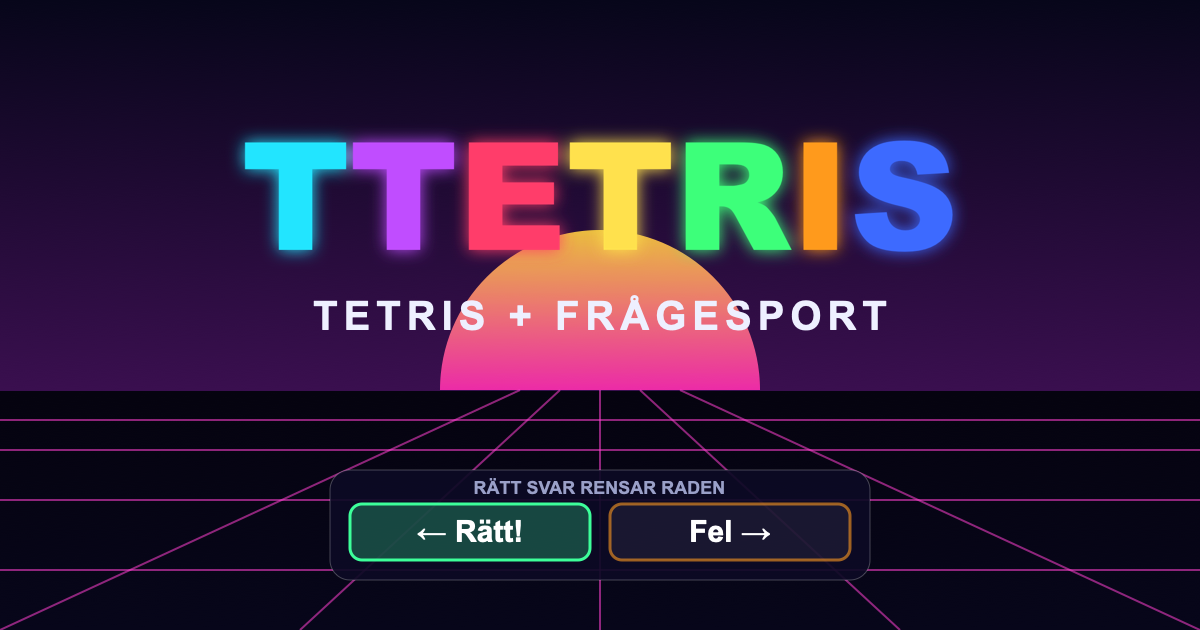
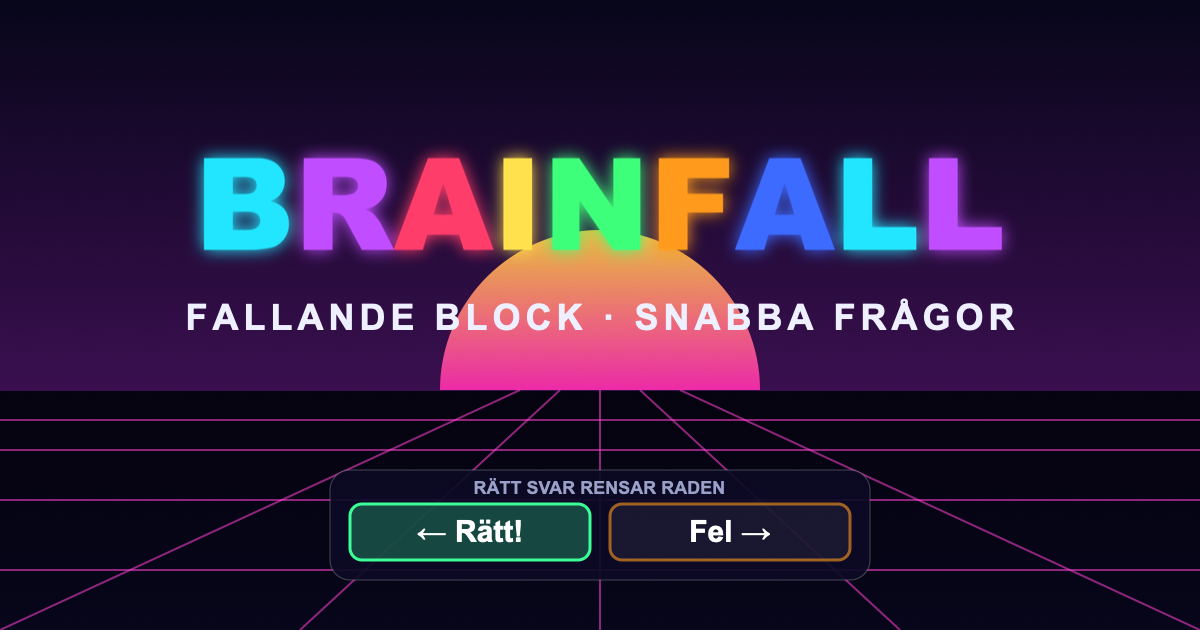
Byt namn till Brainfall
"Tetris" är ett skyddat varumärke, så spelet får ett eget namn innan
det publiceras. Logga, titlar, manifest, OG-bild, delningstext,
localStorage-prefix och README uppdaterade. "TETRIS!" vid fyra rader
heter nu "FYRDUBBELT!" / "QUAD!".

Menyn kan nu scrollas när fönstret är lägre än innehållet, så att
loggan inte klipps bort.

Changed region(s): [[0.1542, 0.2111, 0.8633, 0.4222], [0.1542, 0.4524, 0.8633, 0.5429]]

diff --git a/index.html b/index.html
@@ -3,13 +3,13 @@
   <head>
     <meta charset="UTF-8" />
     <meta name="viewport" content="width=device-width, initial-scale=1, viewport-fit=cover" />
-    <title>TTetris – Tetris med frågesport</title>
-    <meta name="description" content="Tetris med en twist: varje rad du fyller blir en snabb frågesportsfråga. Rätt svar rensar raden. Spela gratis i webbläsaren." />
+    <title>Brainfall – fallande block, snabba frågor</title>
+    <meta name="description" content="Klassiskt blockspel med en twist: varje rad du fyller blir en snabb frågesportsfråga. Rätt svar rensar raden. Spela gratis i webbläsaren." />
     <meta name="theme-color" content="#07061a" />
     <link rel="icon" href="icons/icon.svg" type="image/svg+xml" />
     <link rel="manifest" href="manifest.webmanifest" />
     <meta property="og:type" content="website" />
-    <meta property="og:title" content="TTetris – Tetris med frågesport" />
+    <meta property="og:title" content="Brainfall – fallande block, snabba frågor" />
     <meta property="og:description" content="Fyll en rad, svara rätt – annars blir raden kvar. Kan du slå mitt rekord?" />
     <meta property="og:image" content="%VITE_SITE_URL%og-image.png" />
     <link rel="apple-touch-icon" href="icons/icon-192.png" />
@@ -63,8 +63,8 @@
     </div>
 
     <div id="menu" class="screen">
-      <h1 class="logo" aria-label="TTetris">
-        <span style="--c: var(--I)">T</span><span style="--c: var(--T)">T</span><span style="--c: var(--Z)">E</span><span style="--c: var(--O)">T</span><span style="--c: var(--S)">R</span><span style="--c: var(--L)">I</span><span style="--c: var(--J)">S</span>
+      <h1 class="logo" aria-label="Brainfall">
+        <span style="--c: var(--I)">B</span><span style="--c: var(--T)">R</span><span style="--c: var(--Z)">A</span><span style="--c: var(--O)">I</span><span style="--c: var(--S)">N</span><span style="--c: var(--L)">F</span><span style="--c: var(--J)">A</span><span style="--c: var(--I)">L</span><span style="--c: var(--T)">L</span>
       </h1>
       <p class="subtitle" data-i18n="subtitle"></p>
       <div id="challenge" class="challenge" hidden></div>

diff --git a/src/main.ts b/src/main.ts
@@ -55,7 +55,7 @@ async function loadBank(code: string): Promise<Question[]> {
     banks.set(code, data.questions);
     return data.questions;
   } catch {
-    return []; // offline without cache → classic Tetris
+    return []; // offline without cache → no questions, plain stacking
   }
 }
 
@@ -329,8 +329,8 @@ function handleEvent(g: Game, e: GameEvent, now: number) {
     case 'clear':
       fx.rowBurst(e.rows, e.cells, HIDDEN_ROWS);
       if (e.rows.length >= 4) {
-        audio.play('tetris');
-        fx.text(t('tetris'), '#ffe14d', 1.6, 9);
+        audio.play('quad');
+        fx.text(t('quad'), '#ffe14d', 1.6, 9);
         fx.shake(12, 260);
       } else audio.play('clear');
       break;

diff --git a/src/style.css b/src/style.css
@@ -333,7 +333,9 @@ kbd {
   display: flex;
   flex-direction: column;
   align-items: center;
-  justify-content: center;
+  /* `safe` keeps the top (logo) reachable when the menu is taller than the window. */
+  justify-content: safe center;
+  overflow-y: auto;
   gap: 16px;
   padding: 24px 16px;
   text-align: center;
@@ -381,7 +383,7 @@ kbd {
 
 .logo {
   margin: 0;
-  font: 900 clamp(48px, 13vw, 110px) var(--display);
+  font: 900 clamp(34px, 10vw, 104px) var(--display);
   letter-spacing: 0.04em;
   line-height: 1;
   display: flex;

diff --git a/src/audio/audio.ts b/src/audio/audio.ts
@@ -9,7 +9,7 @@ export type Sfx =
   | 'correct'
   | 'wrong'
   | 'clear'
-  | 'tetris'
+  | 'quad'
   | 'burn'
   | 'levelup'
   | 'gameover'
@@ -248,7 +248,7 @@ export class AudioEngine {
       case 'clear':
         this.noiseHit(b, t, 0.3, 0.18, 600, 'bandpass', 6000);
         break;
-      case 'tetris':
+      case 'quad':
         arp(['C5', 'G5', 'C6', 'E6', 'G6', 'C7'], 0.05, 0.25, 0.12);
         this.noiseHit(b, t, 0.5, 0.2, 400, 'bandpass', 8000);
         break;

diff --git a/src/ui/share.ts b/src/ui/share.ts
@@ -43,7 +43,7 @@ export async function shareScore(seed: string, score: number) {
   const text = t('shareText', { score: formatNumber(score) });
   if (navigator.share) {
     try {
-      await navigator.share({ title: 'TTetris', text, url });
+      await navigator.share({ title: 'Brainfall', text, url });
       return;
     } catch (e) {
       if ((e as DOMException).name === 'AbortError') return;

diff --git a/src/core/game.ts b/src/core/game.ts
@@ -254,7 +254,7 @@ export class Game {
     this.pendingRows = rows;
     const asked = this.nextQuestion();
     if (!asked) {
-      // No questions available: behave like classic Tetris.
+      // No questions available: behave like a classic block-stacking game.
       this.quiz = null;
       this.applyCorrect(1);
       return this.finishTurn();

diff --git a/public/sw.js b/public/sw.js
@@ -1,6 +1,6 @@
 // Offline support: network-first for the page and questions (so updates land fast),
 // cache-first for hashed build assets (they never change).
-const CACHE = 'ttetris-v1';
+const CACHE = 'brainfall-v1';
 
 self.addEventListener('install', () => self.skipWaiting());
 self.addEventListener('activate', (e) => {

diff --git a/tests/core.test.ts b/tests/core.test.ts
@@ -148,7 +148,7 @@ describe('quiz flow', () => {
     expect(g.streak).toBe(0);
   });
 
-  it('without questions it plays like classic Tetris', () => {
+  it('without questions it plays like a classic block game', () => {
     const g = gameReadyForLine(() => null);
     g.hardDrop();
     expect(g.phase).toBe('playing');

diff --git a/src/storage.ts b/src/storage.ts
@@ -28,7 +28,7 @@ export interface HighScore {
   seed: string;
 }
 
-const PREFIX = 'ttetris.';
+const PREFIX = 'brainfall.';
 
 // Storage can throw (private mode, blocked site data) – the game must work without it.
 function read<T>(key: string, fallback: T): T {

diff --git a/README.md b/README.md
@@ -1,6 +1,6 @@
-# TTetris – Tetris med frågesport
+# Brainfall
 
-Tetris med en twist: varje gång du fyller en rad dyker en snabb fråga med två svarsalternativ upp.
+**Fallande block, snabba frågor.** Ett klassiskt blockspel med en twist: varje gång du fyller en rad dyker en snabb fråga med två svarsalternativ upp.
 **Rätt svar** → raden rensas. **Fel svar** (eller tiden tar slut) → raden blir *låst* och stannar kvar.
 **3 rätt i rad** bränner bort den understa låsta raden.
 
@@ -59,7 +59,7 @@ Fler frågor i ett befintligt språk läggs bara till i JSON-filen. Spelet spara
 1. Pusha repot till GitHub.
 2. Gå till Cloudflare dashboard → *Workers & Pages* → *Create* → *Pages* → *Connect to Git* och välj repot.
 3. Build command: `npm run build`. Build output directory: `dist`.
-4. Under *Environment variables*: sätt `VITE_SITE_URL` till din publika URL med avslutande `/`, t.ex. `https://ttetris.pages.dev/`.
+4. Under *Environment variables*: sätt `VITE_SITE_URL` till din publika URL med avslutande `/`, t.ex. `https://brainfall.pages.dev/`.
    Den används för `og:image`, som måste vara en absolut URL för att länkförhandsvisningar ska fungera.
 
 Varje push till `main` deployas automatiskt, och andra brancher får egna preview-URL:er.
@@ -67,7 +67,7 @@ Varje push till `main` deployas automatiskt, och andra brancher får egna previe
 **Utan GitHub:**
 ```bash
 npm run build
-npx wrangler pages deploy dist --project-name ttetris
+npx wrangler pages deploy dist --project-name brainfall
 ```
 
 `public/_headers` ger hashade assets en cache-tid på ett år. `public/sw.js` gör att spelet fungerar offline och kan installeras som app (PWA).
